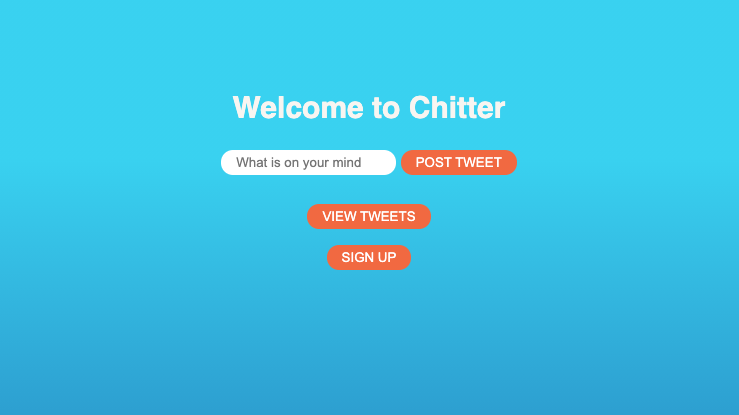
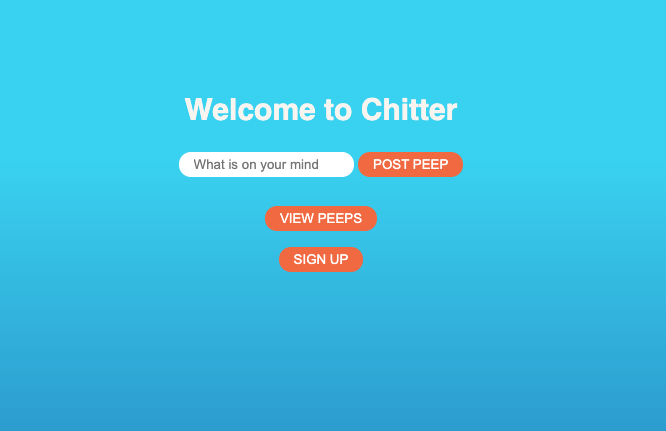
updated photo

Changed region(s): [[0.2703, 0.347, 0.7207, 0.4337], [0.3904, 0.4627, 0.6006, 0.6651], [0.2703, 0.2024, 0.6907, 0.2892]]

diff --git a/spec/features/viewing_tweets_spec.rb b/spec/features/viewing_tweets_spec.rb
@@ -4,7 +4,7 @@ feature 'Viewing tweets' do
   scenario 'visiting the home page' do
     visit('/')
     expect(page).to have_content 'Welcome to Chitter'
-    expect(page).to have_selector(:link_or_button, 'View Tweets')
+    expect(page).to have_selector(:link_or_button, 'View Peeps')
   end
 
   scenario 'Viewing all tweets' do
